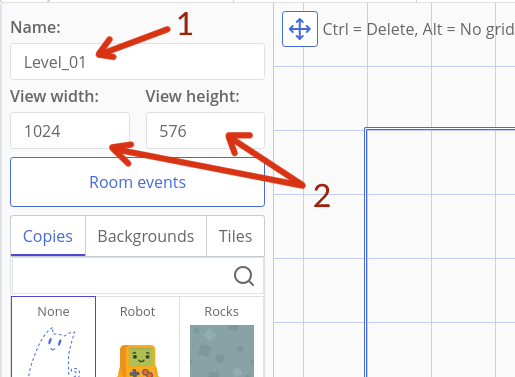
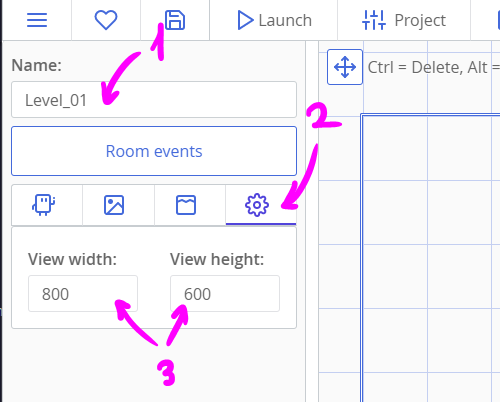
:zap: Update screenshots and directions to match the changes in v1.4, for the platformer tutorial

diff --git a/docs/tut-making-platformer.md b/docs/tut-making-platformer.md
@@ -85,7 +85,7 @@ Create additional types in the same way:
 
 ### Adding a Room
 
-Click on the "Rooms" tab at the top and create a new room. Set its name to "Level_01". Set view's size to 1024x576.
+Click on the "Rooms" tab at the top and create a new room. Set its name to "Level_01". In the "Properties" tab with a cog icon, set view's size to 1024x576.
 
 ![Editing a room](./images/tutPlatformer_10.png)
 
@@ -101,13 +101,13 @@ Now let's add a background. Click the "Backgrounds" tab on the left, press "Add"
 
 ![](./images/tutPlatformer_27.png)
 
-If we save the project now and click the "Play" button at the top, we will be able to see a small portion of our level drawn in a debugger window. Nothing is movable yet, but it's still a good beginning!
+If we save the project now and click the "Launch" button at the top, we will be able to see a small portion of our level drawn in a debugger window. Nothing is movable yet, but it's still a good beginning!
 
 ![Debug window with placed copies and background](./images/tutPlatformer_12.png)
 
 ### Adding Modules for Keyboard and Collisions
 
-We will need to listen to keyboard events and to detect collisions between the Robot and ground. For such superpowers, we will need Catmods! Click on the "Catmods" tab and select the `keyboard` on the left. Then press the big red knob to enable this module. Do the same with the `place` module.
+We will need to listen to keyboard events and to detect collisions between the Robot and ground. For such superpowers, we will need Catmods! Click on the "Project" tab, then on the "Catmods" tab on the left. Click the Keyboard module in the section of available modules so it has a green checkbox and a little spinning circle around it. (It may be already enabled, though!) Do the same with the `place` module.
 
 ![Enabling a module in ct.js](./images/tutPlatformer_13.png)
 
@@ -121,9 +121,7 @@ Each module has its own documentation on the "Reference" tab. We will highlight 
 
 Actions allow to listen to events from keyboard, mouse, gamepad, etc. You can read more about them [here](/actions.html). With them, we will create listeners to WASD keys and arrows.
 
-Go to the Settings panel, then press the "Edit actions" button.
-
-![](./images/tutPlatformer_24.png)
+Go to the Project panel, then press the "Actions and input methods" tab on the left.
 
 Then, create an input scheme as in the picture below. To do that, firstly press the button "Add an action", name it, and then add input methods in the right column. You can use search to quickly add the needed keys.
 
@@ -429,7 +427,7 @@ Now save the room, mark the `Level_01` as a starting room by right-clicking it a
 Create additional exits leading to secret sublevels and back. Get [more assets from here](https://www.kenney.nl/assets/simplified-platformer-pack), if you need such.
 :::
 
-## Collectibles: Counting and Drawing
+## Collectibles: Counting and DrawingCollectibles: Counting and Drawing
 
 ### Adding Crystals
 
@@ -452,7 +450,7 @@ But if we continue to add more features to room-specific codes, we will soon fai
 
 So we need to create reusable functions now. This may look strange, but it is actually not that hard.
 
-Go to the "Settings" tab on the top of the screen, and press the "Add a New Script" button at the bottom-right corner:
+Go to the "Project" tab on the top of the screen, then click the "Custom scripts" tab on the left. Press the "Add a New Script" button:
 
 ![Creating a reusable script](./images/tutPlatformer_20.png)
 
